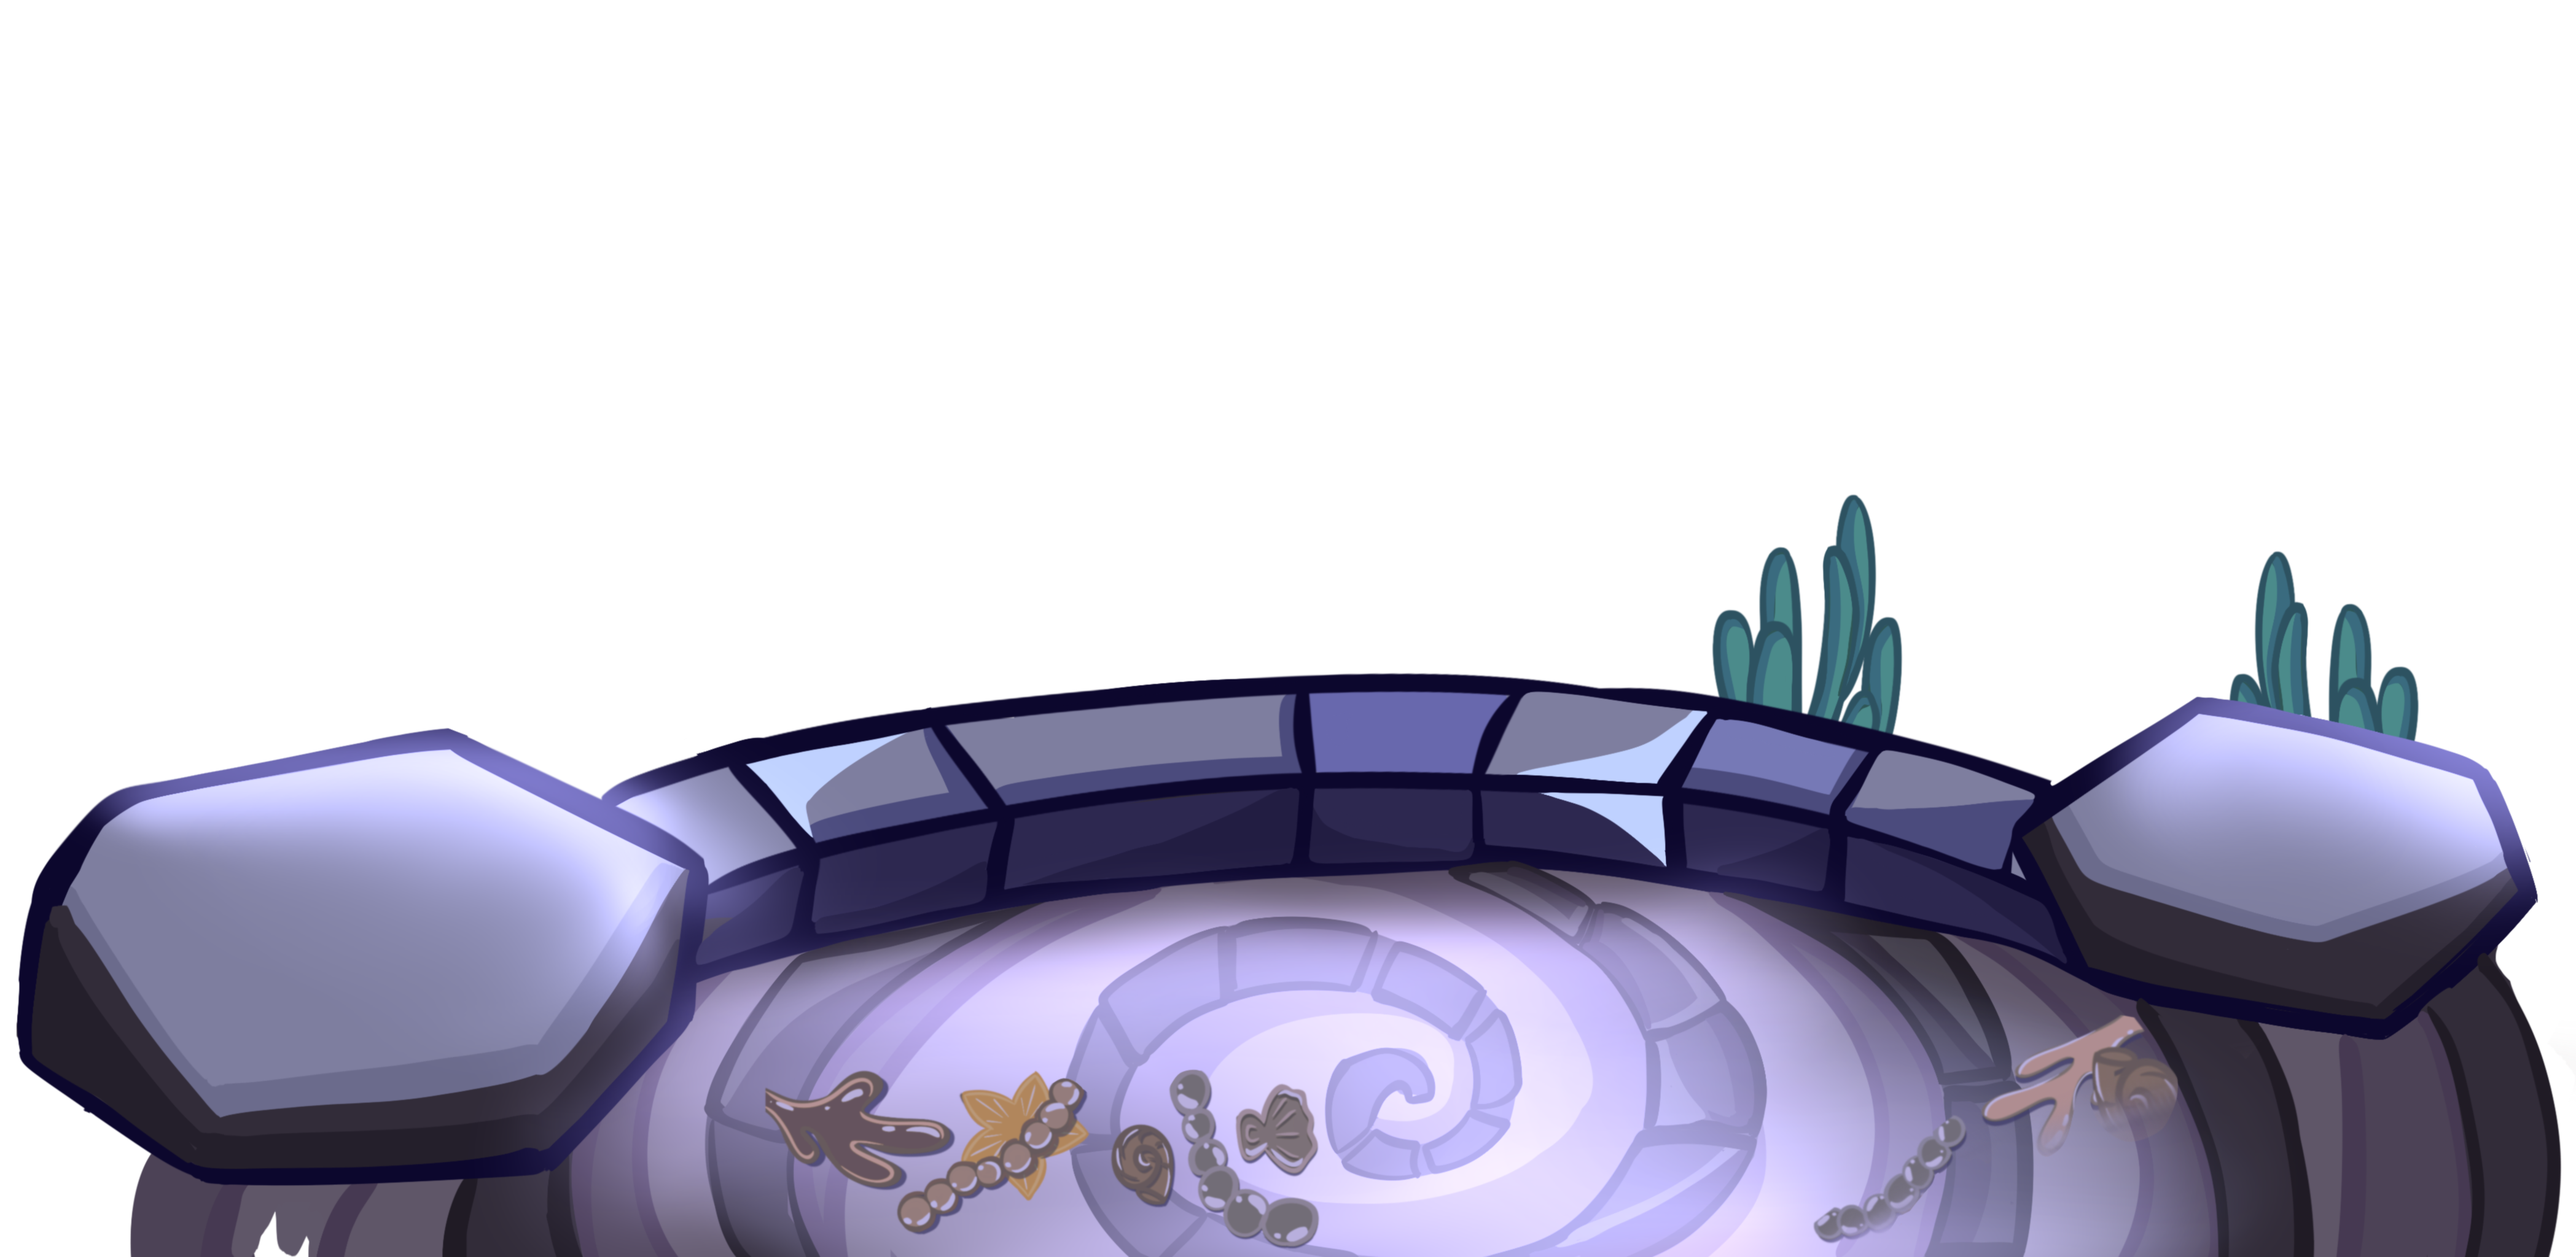
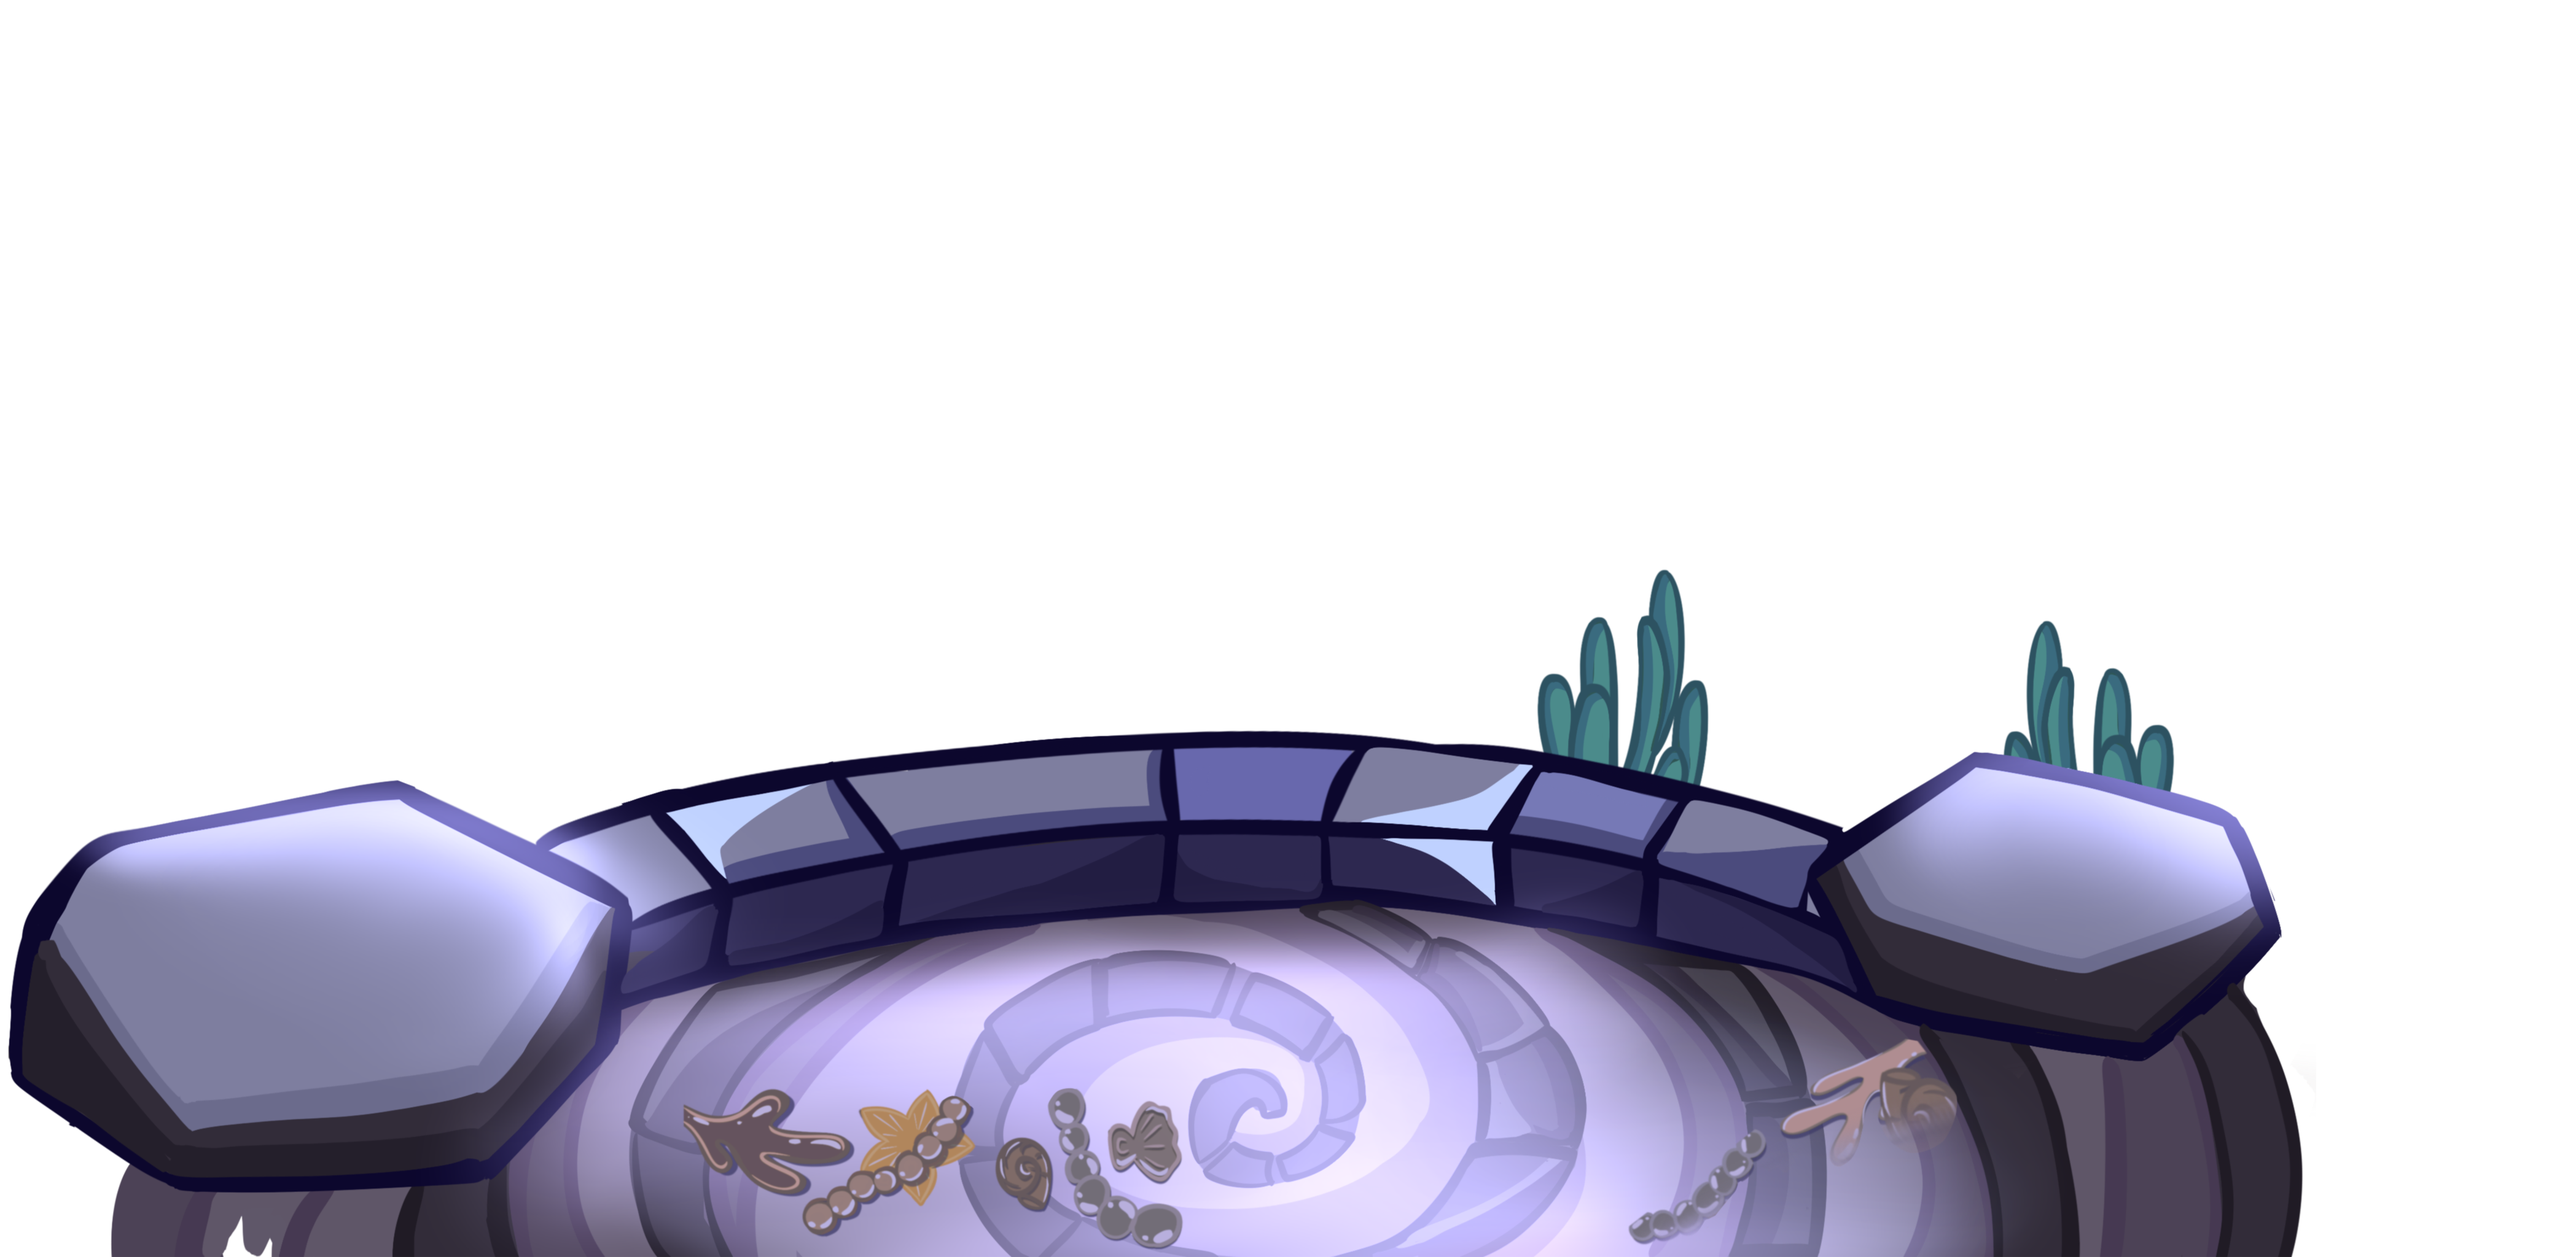
Fix floor graphic

diff --git a/js/game.js b/js/game.js
@@ -53,15 +53,7 @@ const diaryPages = [
     "asset/image/background/BigRoomOceana/Diary3.PNG"
 ];
 
-function checkElements() {
-    console.log('Checking critical elements:');
-    console.log('secondRoomScene:', secondRoomScene ? 'exists' : 'missing');
-    console.log('secondPlayer:', secondPlayer ? 'exists' : 'missing');
-    console.log('secondRoomItems count:', secondRoomItems.length);
-    console.log('secondDoor:', secondDoor ? 'exists' : 'missing');
-    console.log('comicScene:', comicScene ? 'exists' : 'missing');
-    console.log('comicPanels count:', comicPanels.length);
-}
+
 
 // Make sure all scenes are hidden except the home scene at startup
 document.addEventListener('DOMContentLoaded', () => {
@@ -247,55 +239,40 @@ items.forEach((item) => {
 });
 
 // Item click events for second room
-secondRoomItems.forEach((item) => {
+secondRoomItems.forEach((item) => {  // <-- Use a different variable name like "item"
     item.addEventListener('click', () => {
         itemOverlay.style.display = 'flex';
-        boxContent.style.display = 'none'; // Reset box content display
 
-        if (item.id === 'second-item1') { // Mirror
-            currentItem.style.backgroundImage = "url('/asset/image/background/BigRoomOceana/Item/Mirror.PNG')";
+        if (item.id === 'second-item1') {
+            currentItem.style.backgroundImage = "url('/asset/image/background/BigRoomNelly/Item/ToyOpen.PNG')";
+            currentItem.style.backgroundSize = 'cover';
+            currentItem.style.width = '60vw';
+            currentItem.style.height = '85vh';
+
+            currentItem.onclick = () => {
+                boxContent.style.display = 'flex';
+                showMessage('โอ๊ะ!! เจอรูปภาพข้างใน');
+            };
+        } else if (item.id === 'second-item2') {
+            currentItem.style.backgroundImage = "url('/asset/image/background/BigRoomNelly/Item/Board2.PNG')";
             currentItem.style.backgroundSize = 'cover';
             currentItem.style.width = '500px';
             currentItem.style.height = '500px';
             currentItem.onclick = null;
-            showMessage('คุณพบกระจกเงาแตกร้าว');
-        } else if (item.id === 'second-item2') { // Book
-            currentItem.style.backgroundImage = "url('/asset/image/background/BigRoomOceana/Item/Book.PNG')";
-            currentItem.style.backgroundSize = 'cover';
-            currentItem.style.width = '500px';
-            currentItem.style.height = '500px';
-            
-            currentItem.onclick = () => {
-                boxContent.style.display = 'flex';
-                keyImage.src = "/asset/image/background/BigRoomOceana/Item/BookPage.PNG";
-                showMessage('คุณเปิดหนังสือและพบบางอย่าง');
-            };
-        } else if (item.id === 'second-item3') { // Desk
-            currentItem.style.backgroundImage = "url('/asset/image/background/BigRoomOceana/Item/Desk.PNG')";
-            currentItem.style.backgroundSize = 'cover';
-            currentItem.style.width = '60vw';
-            currentItem.style.height = '85vh';
-            
-            if (!hasSecondKey) {
-                currentItem.onclick = () => {
-                    hasSecondKey = true;
-                    secondDoorUnlocked = true;
-                    showMessage('คุณพบกุญแจ! ประตูปลดล็อคแล้ว');
-                };
-            } else {
-                currentItem.onclick = null;
-                showMessage('คุณตรวจสอบโต๊ะทำงานแล้ว ไม่มีอะไรอีก');
-            }
+            boxContent.style.display = 'none';
+            showMessage('คุณพบกระดาน');
         } else {
             currentItem.style.backgroundImage = getComputedStyle(item).backgroundImage;
             currentItem.style.backgroundSize = 'cover';
             currentItem.style.width = '500px';
             currentItem.style.height = '500px';
             currentItem.onclick = null;
+            boxContent.style.display = 'none';
             showMessage('คุณพบไอเทม แต่ไม่มีอะไรพิเศษ');
         }
     });
 });
+
 
 // คลิกที่ภาพในกล่องเพื่อเปิดภาพใหญ่
 keyImage.addEventListener('click', () => {
@@ -382,104 +359,39 @@ comicNextButton.addEventListener('click', () => {
     
 });
 
-// Function to ensure all event listeners are properly attached
-function bindAllEventListeners() {
-    console.log("Binding all event listeners");
-    
-    // Rebind the close button event
-    closeItem.addEventListener('click', () => {
-        itemOverlay.style.display = 'none';
-        boxContent.style.display = 'none';
-    });
 
-    // Rebind item events for second room
-    document.querySelectorAll('.second-room-item').forEach((item) => {
-        console.log(`Binding event for ${item.id}`);
-        item.addEventListener('click', (e) => {
-            console.log(`Clicked on ${item.id}`);
-            e.stopPropagation(); // Prevent event bubbling
-            
-            // Make sure overlay is visible and positioned correctly
-            itemOverlay.style.display = 'flex';
-            
-            // Handle different items
-            if (item.id === 'second-item1') {
-                currentItem.style.backgroundImage = "url('/asset/image/background/BigRoomOceana/Item/Mirror.PNG')";
-                currentItem.style.backgroundSize = 'contain';
-                currentItem.style.backgroundPosition = 'center';
-                currentItem.style.width = '500px';
-                currentItem.style.height = '500px';
-                currentItem.onclick = null;
-                boxContent.style.display = 'none';
-                showMessage('คุณพบกระจกเงาแตกร้าว');
-            } else if (item.id === 'second-item2') {
-                currentItem.style.backgroundImage = "url('/asset/image/background/BigRoomOceana/Item/Book.PNG')";
-                currentItem.style.backgroundSize = 'contain';
-                currentItem.style.backgroundPosition = 'center';
-                currentItem.style.width = '500px';
-                currentItem.style.height = '500px';
-                
-                currentItem.onclick = () => {
-                    boxContent.style.display = 'flex';
-                    keyImage.src = "/asset/image/background/BigRoomOceana/Item/BookPage.PNG";
-                    showMessage('คุณเปิดหนังสือและพบบางอย่าง');
-                };
-            } else if (item.id === 'second-item3') {
-                currentItem.style.backgroundImage = "url('/asset/image/background/BigRoomOceana/Item/Desk.PNG')";
-                currentItem.style.backgroundSize = 'contain';
-                currentItem.style.backgroundPosition = 'center';
-                currentItem.style.width = '60vw';
-                currentItem.style.height = '85vh';
-                
-                if (!hasSecondKey) {
-                    currentItem.onclick = () => {
-                        hasSecondKey = true;
-                        secondDoorUnlocked = true;
-                        showMessage('คุณพบกุญแจ! ประตูปลดล็อคแล้ว');
-                    };
-                } else {
-                    currentItem.onclick = null;
-                    boxContent.style.display = 'none';
-                    showMessage('คุณตรวจสอบโต๊ะทำงานแล้ว ไม่มีอะไรอีก');
-                }
-            }
+
+// Function to handle room switching
+function switchRoom(roomNumber) {
+    const firstRoom = document.getElementById('firstRoom');
+    const secondRoom = document.getElementById('secondRoom');
+    
+    if (roomNumber === 1) {
+        firstRoom.style.display = 'block';
+        secondRoom.style.display = 'none';
+        setupFirstRoomItems();
+    } else if (roomNumber === 2) {
+        firstRoom.style.display = 'none';
+        secondRoom.style.display = 'block';
+        setupSecondRoomItems();
+    }
+}
+
+// Call this when the page loads
+document.addEventListener('DOMContentLoaded', function() {
+    // Setup first room by default
+    setupFirstRoomItems();
+    
+    // Setup room transition events if they exist
+    const roomTransitionButtons = document.querySelectorAll('.room-transition');
+    roomTransitionButtons.forEach(button => {
+        button.addEventListener('click', () => {
+            const targetRoom = parseInt(button.getAttribute('data-room'));
+            switchRoom(targetRoom);
         });
     });
-}
-
-// Modify the changeScene function to call bindAllEventListeners
-function changeScene(sceneId) {
-    // Hide all scenes
-    document.querySelectorAll('.scene').forEach(scene => {
-        scene.classList.remove('active');
-        scene.style.display = 'none'; // Fallback safety
-    });
-
-    // Show the requested scene
-    const newScene = document.getElementById(sceneId);
-    newScene.classList.add('active');
-    newScene.style.display = 'flex'; // Fallback safety
-
-    currentScene = sceneId;
-    console.log('Changed to scene:', sceneId);
-
-    if (sceneId === 'cutscene-1') {
-        videoPlayer.play();
-        nextButton.style.display = 'none';
-    }
     
-    // If this is the second room, ensure event listeners are attached
-    if (sceneId === 'second-room-scene') {
-        console.log("Switched to second room scene, binding event listeners");
-        // Wait a brief moment to ensure DOM is updated
-        setTimeout(bindAllEventListeners, 100);
-    }
-}
-
-// Call this when document is loaded
-document.addEventListener('DOMContentLoaded', () => {
-    // Your existing initialization code
-    
-    // Also bind all event listeners initially
-    bindAllEventListeners();
+    // Alternatively, set up both rooms' items right away
+    setupFirstRoomItems();
+    setupSecondRoomItems();
 });

diff --git a/css/style.css b/css/style.css
@@ -310,48 +310,46 @@ body {
     display: none;
     justify-content: center;
     align-items: center;
-    z-index: 1000; /* Very high z-index to ensure it appears above all scene elements */
+    z-index: 100;
 }
 
 #item-display {
     position: relative;
-    width: 50%; /* Increased width for better visibility */
-    height: 60%; /* Increased height for better visibility */
+    width: 50%;
+    height: 60%;
+
     background-size: cover;
     background-repeat: no-repeat;
     display: flex;
     justify-content: center;
     align-items: center;
-    z-index: 1001; /* Higher than the overlay */
 }
 
 #close-item {
     position: absolute;
-    top: 20px;
-    right: 20px;
+    top: 10%;
+    right: 10%;
     background-color: #347bd38c;
     font-family: Issara;
-    font-size: 16pt;
+    font-size: 14pt;
     color: white;
     border: none;
     width: 40px;
     height: 40px;
-    border-radius: 50%; /* Make it round */
+    border-radius: 20%;
     cursor: pointer;
+    padding-bottom: 5px;
+
     display: flex;
     justify-content: center;
     align-items: center;
-    z-index: 1002; /* Higher than the item display */
-    transition: background-color 0.2s ease;
 }
 
 #current-item {
-    width: 80%;
-    height: 80%;
-    background-size: contain; /* Changed from cover to contain to show full images */
-    background-repeat: no-repeat;
-    background-position: center;
-    z-index: 1001;
+    width: 60vw;
+    height: 70vh;
+
+
 }
 
 #image-overlay {
@@ -555,11 +553,11 @@ body {
 }
 
 #second-item1 {
-    top: 50%;
-    left: 80%;
+    top: 55%;
+    left: 70%;
     aspect-ratio: 1 / 1;
-    width: 18%;
-    height: 30%;
+    width: 13%;
+    height: 22%;
     background-image: url('/asset/image/background/BigRoomOceana/Pic.PNG');
     background-size: cover;
     background-repeat: no-repeat;
@@ -588,7 +586,7 @@ body {
 
 #second-door {
     position: absolute;
-    top: 7%;
+    top: 10%;
     left: 55%;
     aspect-ratio: 1 / 1;
     width: 28%;
@@ -619,11 +617,11 @@ body {
 #second-foreground-layer2 {
     position: absolute;
     top: 0;
-    left: 10%;
-    width: 90%;
+    left: 0;
+    width: 100%;
     height: 100%;
 
-    background-image: url('/asset/image/background/BigRoomOceana/Floor.png'); /* example foreground image */
+    background-image: url('/asset/image/background/BigRoomOceana/floor.png'); /* example foreground image */
     background-size: cover;
     background-repeat: no-repeat;
     background-position: center center;

diff --git a/whisperofenvy.html b/whisperofenvy.html
@@ -119,24 +119,25 @@
             <div id="second-door"></div>
         </div>
 
-        <!-- Item overlay - now placed OUTSIDE of any specific scene for better visibility -->
-    <div id="item-overlay">
-        <div id="item-display">
-            <button id="close-item">X</button>
-            <div id="current-item"></div>
-            <div id="box-content">
-                <img id="key-image" src="/asset/image/background/BigRoomNelly/Item/picinbox1.PNG" alt="key image"
-                    style="cursor: pointer;" />
+            <!-- Item overlay -->
+            <div id="item-overlay">
+                <div id="item-display">
+                    <button id="close-item">X</button>
+                    <div id="current-item"></div>
+                    <div id="box-content">
+                        <img id="key-image" src="asset/image/background/BigRoomNelly/Item/picinbox1.PNG" alt="key image"
+                            style="cursor: pointer;" />
+                    </div>
+                </div>
             </div>
-        </div>
-    </div>
 
-    <!-- Image overlay - also outside scenes -->
-    <div id="image-overlay" style="display:none;">
-        <div id="image-popup">
-            <img id="overlay-image" src="" alt="image detail" />
-        </div>
-    </div>
+            <!-- Image overlay -->
+            <div id="image-overlay" style="display:none;">
+                <div id="image-popup">
+                    <img id="overlay-image" src="asset/image/background/BigRoomNelly/Item/picinbox2.PNG"
+                        alt="image detail" />
+                </div>
+            </div>
 
         <!-- Game Message -->
         <div id="game-message"></div>
